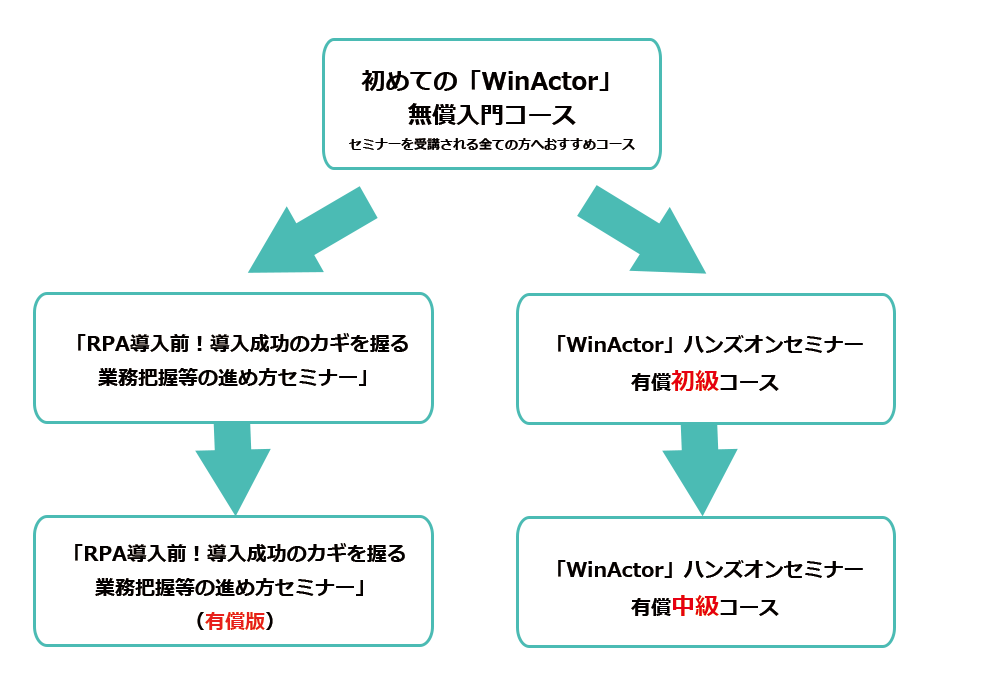
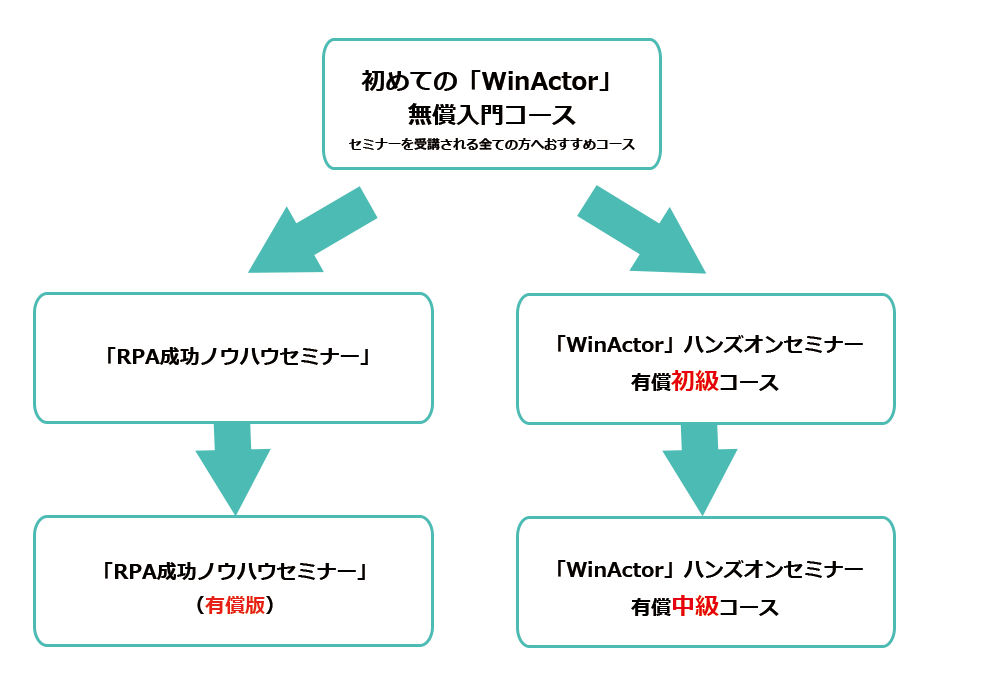
・業務プロセスセミナー→RPA成功ノウハウセミナーに変更 ・1/22セミナー削除 ・1/29セミナークローズ

Changed region(s): [[0.062, 0.78, 0.403, 0.9], [0.062, 0.48, 0.403, 0.57]]

diff --git a/src/winactor/seminar/free-businessimprovement.html b/src/winactor/seminar/free-businessimprovement.html
@@ -4,12 +4,12 @@ global_menu:  ""
 description:  "RPA「WinActor」の無料セミナー。WinActor導入による業務改善や業務改革について詳しくお話しします。"
 keywords:   "WinActor,セミナー"
 category:   ""
-title:      "WinActor無償セミナー「WinActor導入による業務改善セミナー」"
+title:      "WinActor無償セミナー「RPA成功ノウハウセミナー」"
 ---
       <!-- Breadcrumbs-->
       <section class="breadcrumbs-custom bg-image">
         <div class="shell">
-          <h1 class="heading-1 breadcrumbs-custom-title">「RPA導入前！導入成功のカギを握る業務把握等の進め方セミナー」</h1>
+          <h1 class="heading-1 breadcrumbs-custom-title">「RPA成功ノウハウセミナー」</h1>
         </div>
       </section>
 
@@ -78,7 +78,7 @@ title:      "WinActor無償セミナー「WinActor導入による業務改善セ
         <div class="center-shell">
           <div class="range range-xs-center">
             <div class="cell-sm-10 cell-lg-8">
-              <h2>「RPA導入前！導入成功のカギを握る業務把握等の進め方セミナー」の内容</h2>
+              <h2>「RPA成功ノウハウセミナー」の内容</h2>
               <div class="table-novi table-custom-responsive">
                 <table class="table-custom table-color-header">
                   <thead>
@@ -93,7 +93,7 @@ title:      "WinActor無償セミナー「WinActor導入による業務改善セ
                       <td>―</td>
                     </tr>
                     <tr>
-                      <td>業務プロセス改善セミナーの概要</td>
+                      <td>ノウハウセミナーの概要</td>
                       <td>13:00~13:30</td>
                       <td>－セミナーの概要紹介<br>－自動化ツール導入ブーム<br>－自動化ツール導入／活用の落とし穴<br>－何が必要か<br>－導入プロジェクトの標準開発方法論</td>
                     </tr>
@@ -241,7 +241,7 @@ title:      "WinActor無償セミナー「WinActor導入による業務改善セ
             <div class="cell-sm-6 cell-lg-3">
               <div class="pricing-box pricing-box-xl pricing-box-novi">
                 <div class="pricing-box-header">
-                  <h4>「RPA導入前！導入成功のカギを握る業務把握等の進め方セミナー」(有償版)</h4>
+                  <h4>「RPA成功ノウハウセミナー」(有償版)</h4>
                 </div>
                 <div class="pricing-box-price">
                   <div class="heading-2">35,000円/人(税別)</div>
@@ -251,7 +251,7 @@ title:      "WinActor無償セミナー「WinActor導入による業務改善セ
                     <li>
                       <div class="unit unit-spacing-sm unit-horizontal unit-middle">
                         <div class="unit-left"><span class="icon icon-md-big icon-primary mdi mdi-account-multiple"></span></div>
-                        <div class="unit-body"><span>無償版「RPA導入前！導入成功のカギを握る業務把握等の進め方セミナー」ではお伝え出来なかった詳細な内容を具体的な実践と共に1日かけて学んで頂きます。</span></div>
+                        <div class="unit-body"><span>無償版「RPA成功ノウハウセミナー」ではお伝え出来なかった詳細な内容を具体的な実践と共に1日かけて学んで頂きます。</span></div>
                       </div>
                     </li>
                     <a class="button button-sm button-primary" href="paying-businessimprovement.html">詳細を見る</a>

diff --git a/src/winactor/seminar/free-gettingstarted.html b/src/winactor/seminar/free-gettingstarted.html
@@ -54,7 +54,7 @@ title:      "WinActor無料セミナー「初めてのWinActor入門セミナー
                       <th>開催日</th>
                       <td>
                         <ul class="grayDisc">
-                          <li>2019年1月29日(火)13時～16時15分</li>
+                          <li>2019年1月29日(火)13時～16時15分(受付終了)</li>
                           <li>2019年2月7日(木)13時～16時15分</li>
                           <li>2019年2月26日(火)13時～16時15分</li>
                           <!--(<span style="color: red">満員御礼</span>)-->
@@ -234,7 +234,7 @@ title:      "WinActor無料セミナー「初めてのWinActor入門セミナー
             <div class="cell-sm-6 cell-lg-3">
               <div class="pricing-box pricing-box-xl pricing-box-novi">
                 <div class="pricing-box-header">
-                  <h4>「RPA導入前！導入成功のカギを握る業務把握等の進め方セミナー」</h4>
+                  <h4>「RPA成功ノウハウセミナー」</h4>
                 </div>
                 <div class="pricing-box-price">
                   <div class="heading-2">無償</div>
@@ -256,7 +256,7 @@ title:      "WinActor無料セミナー「初めてのWinActor入門セミナー
             <div class="cell-sm-6 cell-lg-3">
               <div class="pricing-box pricing-box-xl pricing-box-novi">
                 <div class="pricing-box-header">
-                  <h4>「RPA導入前！導入成功のカギを握る業務把握等の進め方セミナー」(有償版)</h4>
+                  <h4>「RPA成功ノウハウセミナー」(有償版)</h4>
                 </div>
                 <div class="pricing-box-price">
                   <div class="heading-2">35,000円/人(税別)</div>
@@ -266,7 +266,7 @@ title:      "WinActor無料セミナー「初めてのWinActor入門セミナー
                     <li>
                       <div class="unit unit-spacing-sm unit-horizontal unit-middle">
                         <div class="unit-left"><span class="icon icon-md-big icon-primary mdi mdi-account-multiple"></span></div>
-                        <div class="unit-body"><span>無償版「RPA導入前！導入成功のカギを握る業務把握等の進め方セミナー」ではお伝え出来なかった詳細な内容を具体的な実践と共に1日かけて学んで頂きます。</span></div>
+                        <div class="unit-body"><span>無償版「RPA成功ノウハウセミナー」ではお伝え出来なかった詳細な内容を具体的な実践と共に1日かけて学んで頂きます。</span></div>
                       </div>
                     </li>
                     <a class="button button-sm button-primary" href="paying-businessimprovement.html">詳細を見る</a>

diff --git a/src/winactor/seminar/paying-businessimprovement.html b/src/winactor/seminar/paying-businessimprovement.html
@@ -4,12 +4,12 @@ global_menu:  ""
 description:  "RPA「WinActor」の有料セミナー。WinActorの導入による業務改善の方法についてご紹介するセミナーです。"
 keywords:   "WinActor,セミナー"
 category:   ""
-title:      "WinActor有料セミナー「WinActor導入による業務改善方法の紹介セミナー」"
+title:      "WinActor有料セミナー「RPA成功ノウハウセミナー」"
 ---
       <!-- Breadcrumbs-->
       <section class="breadcrumbs-custom bg-image">
         <div class="shell">
-          <h1 class="heading-1 breadcrumbs-custom-title">「RPA導入前！導入成功のカギを握る業務把握等の進め方セミナー」(有償版)</h1>
+          <h1 class="heading-1 breadcrumbs-custom-title">「RPA成功ノウハウセミナー」(有償版)</h1>
           <!--<ul class="breadcrumbs-custom-path">
             <li><a href="index.html">Home</a></li>
             <li><a href="#">Pages</a></li>
@@ -53,7 +53,6 @@ title:      "WinActor有料セミナー「WinActor導入による業務改善方
                       <th>開催日</th>
                       <td>
                         <ul class="grayDisc">
-                          <li>2019年1月22日(火)　10時～17時(受付終了)</li>
                           <li>2019年2月21日(木)　10時～17時</li>
                           <!--<li>現在ご案内できる日程はございません。</li>-->
                         </ul>
@@ -89,7 +88,7 @@ title:      "WinActor有料セミナー「WinActor導入による業務改善方
         <div class="center-shell">
           <div class="range range-xs-center">
             <div class="cell-sm-10 cell-lg-8">
-              <h2>「RPA導入前！導入成功のカギを握る業務把握等の進め方セミナー」(有償版)の内容</h2>
+              <h2>「RPA成功ノウハウセミナー」(有償版)の内容</h2>
               <div class="table-novi table-custom-responsive">
                 <table class="table-custom table-color-header">
                   <thead>
@@ -282,7 +281,7 @@ title:      "WinActor有料セミナー「WinActor導入による業務改善方
             <div class="cell-sm-6 cell-lg-3">
               <div class="pricing-box pricing-box-xl pricing-box-novi">
                 <div class="pricing-box-header">
-                  <h4>「RPA導入前！導入成功のカギを握る業務把握等の進め方セミナー」</h4>
+                  <h4>「RPA成功ノウハウセミナー」</h4>
                 </div>
                 <div class="pricing-box-price">
                   <div class="heading-2">無償</div>

diff --git a/src/winactor/seminar/paying-beginner.html b/src/winactor/seminar/paying-beginner.html
@@ -227,7 +227,7 @@ title:      "WinActorハンズオンセミナー「有料初級コース」"
             <div class="cell-sm-6 cell-lg-3">
               <div class="pricing-box pricing-box-xl pricing-box-novi">
                 <div class="pricing-box-header">
-                  <h4>「RPA導入前！導入成功のカギを握る業務把握等の進め方セミナー」</h4>
+                  <h4>「RPA成功ノウハウセミナー」</h4>
                 </div>
                 <div class="pricing-box-price">
                   <div class="heading-2">無償</div>
@@ -250,7 +250,7 @@ title:      "WinActorハンズオンセミナー「有料初級コース」"
             <div class="cell-sm-6 cell-lg-3">
               <div class="pricing-box pricing-box-xl pricing-box-novi">
                 <div class="pricing-box-header">
-                  <h4>「RPA導入前！導入成功のカギを握る業務把握等の進め方セミナー」(有償版)</h4>
+                  <h4>「RPA成功ノウハウセミナー」(有償版)</h4>
                 </div>
                 <div class="pricing-box-price">
                   <div class="heading-2">35,000円/人(税別)</div>
@@ -260,7 +260,7 @@ title:      "WinActorハンズオンセミナー「有料初級コース」"
                     <li>
                       <div class="unit unit-spacing-sm unit-horizontal unit-middle">
                         <div class="unit-left"><span class="icon icon-md-big icon-primary mdi mdi-account-multiple"></span></div>
-                        <div class="unit-body"><span>無償版「RPA導入前！導入成功のカギを握る業務把握等の進め方セミナー」ではお伝え出来なかった詳細な内容を具体的な実践と共に1日かけて学んで頂きます。</span></div>
+                        <div class="unit-body"><span>無償版「RPA成功ノウハウセミナー」ではお伝え出来なかった詳細な内容を具体的な実践と共に1日かけて学んで頂きます。</span></div>
                       </div>
                     </li>
                     <a class="button button-sm button-primary" href="paying-businessimprovement.html">詳細を見る</a>

diff --git a/src/winactor/seminar/paying-intermediate.html b/src/winactor/seminar/paying-intermediate.html
@@ -241,7 +241,7 @@ title:      "WinActorハンズオンセミナー「有料中級コース」"
             <div class="cell-sm-6 cell-lg-3">
               <div class="pricing-box pricing-box-xl pricing-box-novi">
                 <div class="pricing-box-header">
-                  <h4>「RPA導入前！導入成功のカギを握る業務把握等の進め方セミナー」</h4>
+                  <h4>「RPA成功ノウハウセミナー」</h4>
                 </div>
                 <div class="pricing-box-price">
                   <div class="heading-2">無償</div>
@@ -264,7 +264,7 @@ title:      "WinActorハンズオンセミナー「有料中級コース」"
             <div class="cell-sm-6 cell-lg-3">
               <div class="pricing-box pricing-box-xl pricing-box-novi">
                 <div class="pricing-box-header">
-                  <h4>「RPA導入前！導入成功のカギを握る業務把握等の進め方セミナー」(有償版)</h4>
+                  <h4>「RPA成功ノウハウセミナー」(有償版)</h4>
                 </div>
                 <div class="pricing-box-price">
                   <div class="heading-2">35,000円/人(税別)</div>
@@ -274,7 +274,7 @@ title:      "WinActorハンズオンセミナー「有料中級コース」"
                     <li>
                       <div class="unit unit-spacing-sm unit-horizontal unit-middle">
                         <div class="unit-left"><span class="icon icon-md-big icon-primary mdi mdi-account-multiple"></span></div>
-                        <div class="unit-body"><span>無償版「RPA導入前！導入成功のカギを握る業務把握等の進め方セミナー」ではお伝え出来なかった詳細な内容を具体的な実践と共に1日かけて学んで頂きます。</span></div>
+                        <div class="unit-body"><span>無償版「RPA成功ノウハウセミナー」ではお伝え出来なかった詳細な内容を具体的な実践と共に1日かけて学んで頂きます。</span></div>
                       </div>
                     </li>
                     <a class="button button-sm button-primary" href="paying-businessimprovement.html">詳細を見る</a>

diff --git a/src/_includes/win-header.html b/src/_includes/win-header.html
@@ -94,8 +94,8 @@
                         <li><a href="/winactor/seminar/free-gettingstarted.html">初めての「WinActor」無償入門セミナー</a></li>
                         <li><a href="/winactor/seminar/paying-beginner.html">「WinActor」ハンズオンセミナー有償初級コース</a></li>
                         <li><a href="/winactor/seminar/paying-intermediate.html">「WinActor」ハンズオンセミナー有償中級コース</a></li>
-                        <li><a href="/winactor/seminar/free-businessimprovement.html">「RPA導入前！導入成功のカギを握る業務把握等の進め方セミナー」</a></li>
-                       <li><a href="/winactor/seminar/paying-businessimprovement.html">「RPA導入前！導入成功のカギを握る業務把握等の進め方セミナー」(有償版)</a></li>            
+                        <li><a href="/winactor/seminar/free-businessimprovement.html">「RPA成功ノウハウセミナー」</a></li>
+                       <li><a href="/winactor/seminar/paying-businessimprovement.html">「RPA成功ノウハウセミナー」(有償版)</a></li>            
 
                         <!--<li><a href="#">開催実績・開催報告</a></li>-->
                       </ul>

diff --git a/src/winactor/form/seminar_form/free-gettingstarted/index.html b/src/winactor/form/seminar_form/free-gettingstarted/index.html
@@ -94,7 +94,6 @@ title:      "WinActorセミナー『初めての「WinActor」無償入門コー
 		            <div class="form-wrap form-wrap-validation">
 		                <label class="form-label-outside" >【<span style="color: red">必須</span>】ご希望の開催日</label>
 		                <select class="form-control select-filter" data-placeholder="All" data-minimum-results-for-search="Infinity" name="LEADCF7" required>
-	        				<option value="2019年1月29日">2019年1月29日(火)　初めての「WinActor」無償入門セミナー</option>
 	        				<option value="2019年2月7日">2019年2月7日(木)　初めての「WinActor」無償入門セミナー</option>
 	        				<option value="2019年2月26日">2019年2月26日(火)　初めての「WinActor」無償入門セミナー</option>
 		                </select>
